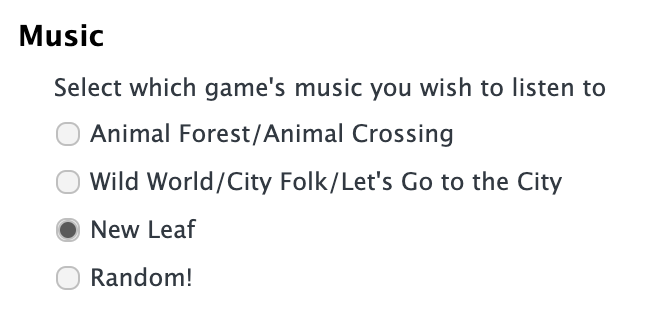
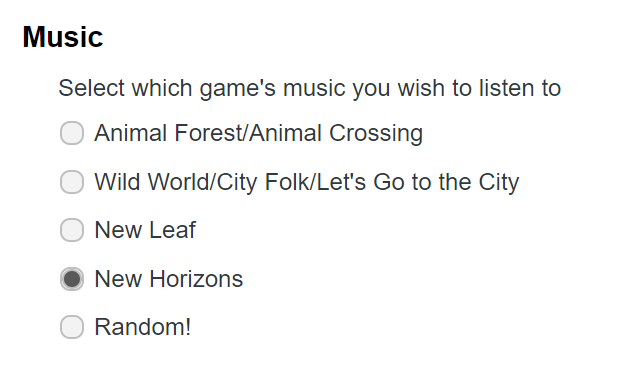
Add: new horizons support

Changed region(s): [[0.0597, 0.2174, 0.9246, 0.9317], [0.0298, 0.0621, 0.179, 0.1553], [0.0597, 0.4037, 0.0895, 0.4348]]

diff --git a/features.md b/features.md
@@ -31,10 +31,13 @@ Featuring music from the following titles:
 Animal Crossing
 </li>
 <li>
-Wild World / City Folk
+Wild World / City Folk / Let's Go to the City
 </li>
 <li>
 New Leaf
+</li>
+<li>
+New Horizons
 </li>
 </ul>
 </p>
